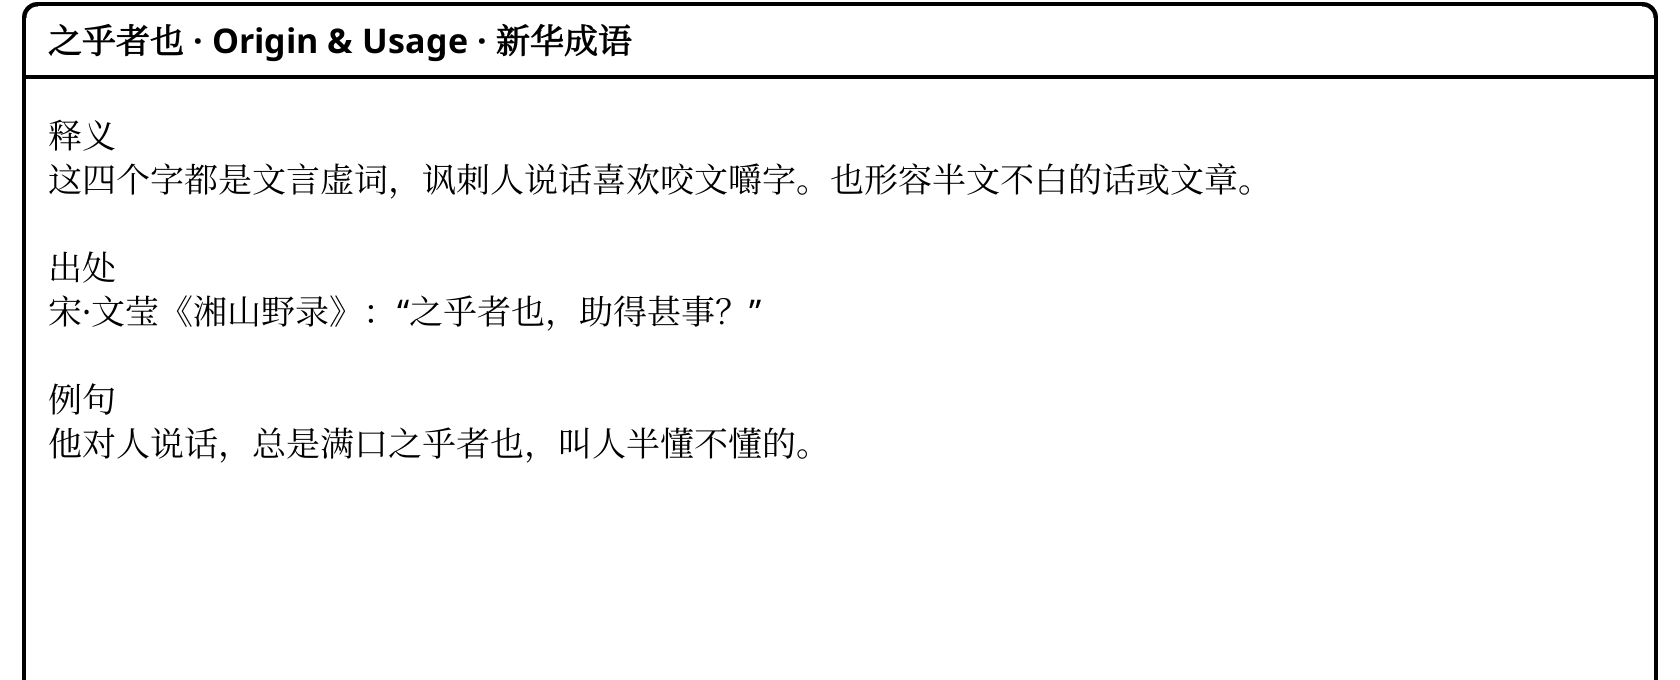
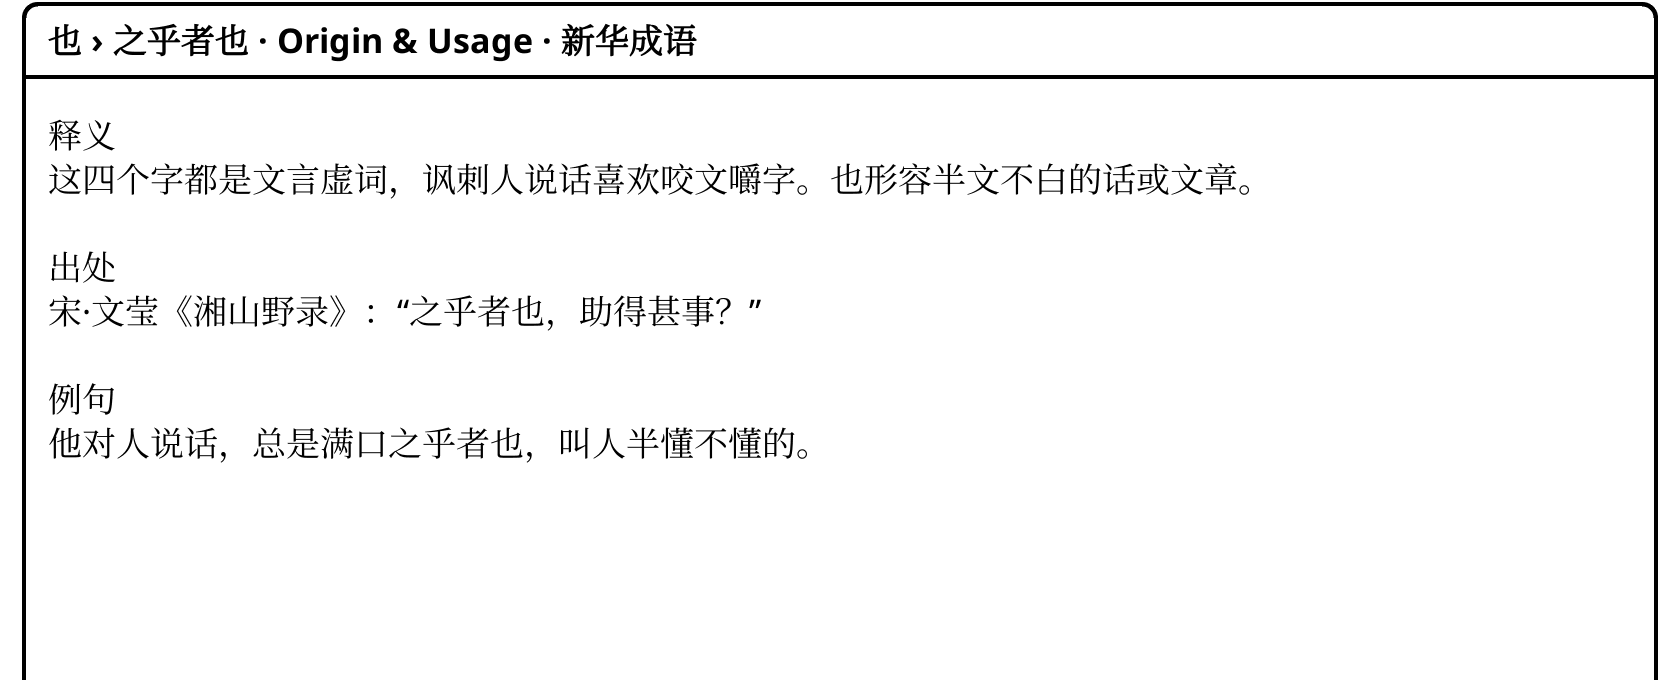
#90: learner list updated for 2.26/2.27 readings; learner, chengyu and mark-button shots retaken; chengyu alt texts
Claude-Session: https://claude.ai/code/session_01WPaZhjFZ44VEfyPXbB1C2c

Changed region(s): [[0.031, 0.0309, 0.4333, 0.0926]]

diff --git a/tools/make_screenshots.py b/tools/make_screenshots.py
@@ -108,19 +108,20 @@ PAGES = {
 }
 
 # Learner mode (#25): page aq59 with pinyin on every character (threshold 0).
-# Every reading hand-checked (一 and 不 in their spoken tones, #37); the one pair, 革过 guò/guo, has the right
-# reading (guo, the aspect particle) second.
+# Every reading hand-checked (一 and 不 in their spoken tones, #37; the neutral tones of 秀才, 消息, 时候 and 招呼
+# since 2.26.0, #90). Of the two pairs, 革过 guò/guo has the right reading (guo, the aspect particle) second,
+# 谈得很投机 de/děi first.
 AQ59_ALL = (
     "你=nǐ 不=bù 知=zhī 道=dào 他=tā 们=men 已=yǐ 经=jīng 来=lái 革=gé 过=guò/guo 了=le 谁=shéi 阿=ā 更=gèng "
-    "其=qí 诧=chà 异=yì 了=le 那=nà 秀=xiù 才=cái 和=hé 洋=yáng 鬼=guǐ 子=zi 阿=ā 很=hěn 出=chū 意=yì 外=wài "
+    "其=qí 诧=chà 异=yì 了=le 那=nà 秀=xiù 才=cai 和=hé 洋=yáng 鬼=guǐ 子=zi 阿=ā 很=hěn 出=chū 意=yì 外=wài "
     "不=bù 由=yóu 的=de 一=yí 错=cuò 愕=è 老=lǎo 尼=ní 姑=gū 见=jiàn 他=tā 失=shī 了=le 锐=ruì 气=qì 便=biàn "
     "飞=fēi 速=sù 的=de 关=guān 了=le 门=mén 阿=ā 再=zài 推=tuī 时=shí 牢=láo 不=bù 可=kě 开=kāi 再=zài 打=dǎ "
     "时=shí 没=méi 有=yǒu 回=huí 答=dá 了=le 那=nà 还=hái 是=shi 上=shàng 午=wǔ 的=de 事=shì 赵=zhào 秀=xiù "
-    "才=cái 消=xiāo 息=xī 灵=líng 一=yì 知=zhī 道=dào 革=gé 命=mìng 党=dǎng 已=yǐ 在=zài 夜=yè 间=jiān "
+    "才=cai 消=xiāo 息=xi 灵=líng 一=yì 知=zhī 道=dào 革=gé 命=mìng 党=dǎng 已=yǐ 在=zài 夜=yè 间=jiān "
     "进=jìn 城=chéng 便=biàn 将=jiāng 辫=biàn 子=zi 盘=pán 在=zài 顶=dǐng 上=shàng 一=yì 早=zǎo 去=qù "
     "拜=bài 访=fǎng 那=nà 历=lì 来=lái 也=yě 不=bù 相=xiāng 能=néng 的=de 钱=qián 洋=yáng 鬼=guǐ 子=zi "
-    "这=zhè 是=shì 咸=xián 与=yù 维=wéi 新=xīn 的=de 时=shí 候=hòu 了=le 所=suǒ 以=yǐ 他=tā 们=men 便=biàn "
-    "谈=tán 得=de 很=hěn 投=tóu 机=jī 立=lì 刻=kè 成=chéng 了=le 情=qíng 投=tóu 意=yì 合=hé 的=de 同=tóng "
+    "这=zhè 是=shì 咸=xián 与=yù 维=wéi 新=xīn 的=de 时=shí 候=hou 了=le 所=suǒ 以=yǐ 他=tā 们=men 便=biàn "
+    "谈=tán 得=de/děi 很=hěn 投=tóu 机=jī 立=lì 刻=kè 成=chéng 了=le 情=qíng 投=tóu 意=yì 合=hé 的=de 同=tóng "
     "志=zhì 也=yě 相=xiāng 约=yuē 去=qù 革=gé 命=mìng 他=tā 们=men 想=xiǎng 而=ér 又=yòu 想=xiǎng 才=cái "
     "想=xiǎng 出=chū 静=jìng 修=xiū 庵=ān 里=lǐ 有=yǒu 一=yí 块=kuài 皇=huáng 帝=dì 万=wàn 岁=suì 万=wàn "
     "万=wàn 岁=suì 的=de 龙=lóng 牌=pái 是=shì 应=yīng 该=gāi 赶=gǎn 紧=jǐn 革=gé 掉=diào 的=de 于=yú 是=shì "
@@ -131,7 +132,7 @@ AQ59_ALL = (
     "检=jiǎn 点=diǎn 龙=lóng 牌=pái 固=gù 然=rán 已=yǐ 经=jīng 碎=suì 在=zài 地=dì 上=shang 了=le 而=ér "
     "且=qiě 又=yòu 不=bú 见=jiàn 了=le 观=guān 音=yīn 娘=niáng 娘=niang 座=zuò 前=qián 的=de 一=yí 个=ge "
     "宣=xuān 德=dé 炉=lú 这=zhè 事=shì 阿=ā 后=hòu 来=lái 才=cái 知=zhī 道=dào 他=tā 颇=pō 悔=huǐ 自=zì 己=jǐ "
-    "睡=shuì 着=zháo 但=dàn 也=yě 深=shēn 怪=guài 他=tā 们=men 不=bù 来=lái 招=zhāo 呼=hū 他=tā 他=tā 又=yòu "
+    "睡=shuì 着=zháo 但=dàn 也=yě 深=shēn 怪=guài 他=tā 们=men 不=bù 来=lái 招=zhāo 呼=hu 他=tā 他=tā 又=yòu "
     "退=tuì 一=yí 步=bù 想=xiǎng 道=dào ").strip()
 # learner-known: the page after a beginner has marked known the 80 commonest
 # characters on it (by 字频 rank, up to 271), each in its default reading,

diff --git a/README.md b/README.md
@@ -45,8 +45,8 @@ Kobo, Kindle, PocketBook, and Android devices such as Boox.
 <td><img src="docs/traditional.png" alt="Popup for 观 in 阿Q正传's 观音娘娘: at the top the line …而且又不见了观音娘娘座前的一个宣德炉。 with 观 marked; the 文言 Mode and reading-mark buttons in the title bar; first, labelled CEDICT, 观音 • 觀音 Guānyīn · decides 观's reading; then 字频 407, the label CEDICT and 观 • 觀 guān · likely here, the same size, with guàn and Guàn after it; traditional 觀: 雚 guàn (archaic) stork; heron → sound (same sound), 見 jiàn see → meaning, simplified: 雚 → 又"><br><a href="#character-components"><b>Parts the simplification hid</b></a>: 观 is read through 觀, 雚 <i>guàn</i> → sound</td>
 </tr>
 <tr>
-<td><img src="docs/chengyu.png" alt="Popup for 也 in 孔乙己's 满口之乎者也: at the top the line 他对人说话，总是满口之乎者也，教人半懂不懂的。 with 也 marked; the 文言 Mode and reading-mark buttons in the title bar; first 满口之乎者也 • 滿口之乎者也 and 之乎者也, each labelled CEDICT, 之乎者也 with a Chinese line labelled 新华: 这四个字都是文言虚词，讽刺人说话喜欢咬文嚼字。也形容半文不白的话或文章。; then 字频 38, the label CEDICT, 也 yě and its Wikt line pictogram (象形); a 成语 Origin &amp; Usage button"><br><a href="#chengyu"><b>Chengyu explained</b></a>: 之乎者也 with Xinhua's line (optional file) …</td>
-<td><img src="docs/chengyu-2.png" alt="The Origin &amp; Usage view for 之乎者也 from 新华成语: 释义; 出处 宋·文莹《湘山野录》：“之乎者也，助得甚事？”; 例句 他对人说话，总是满口之乎者也，叫人半懂不懂的。"><br>… and its <a href="#chengyu"><b>Origin &amp; Usage</b></a> view: the classical source and an example from this same passage of 孔乙己</td>
+<td><img src="docs/chengyu.png" alt="Popup for 也 in 孔乙己's 满口之乎者也: at the top the line 他对人说话，总是满口之乎者也，教人半懂不懂的。 with 也 marked; the 文言 Mode and reading-mark buttons in the title bar; first 之乎者也, labelled CEDICT, with a Chinese line labelled 新华: 这四个字都是文言虚词，讽刺人说话喜欢咬文嚼字。也形容半文不白的话或文章。; then 满口之乎者也 • 滿口之乎者也, labelled CEDICT; then 字频 38, the label CEDICT, 也 yě and its Wikt line pictogram (象形); a 成语 Origin &amp; Usage button"><br><a href="#chengyu"><b>Chengyu explained</b></a>: 之乎者也 with Xinhua's line (optional file) …</td>
+<td><img src="docs/chengyu-2.png" alt="The Origin &amp; Usage view titled 也 › 之乎者也 · Origin &amp; Usage · 新华成语: 释义; 出处 宋·文莹《湘山野录》：“之乎者也，助得甚事？”; 例句 他对人说话，总是满口之乎者也，叫人半懂不懂的。"><br>… and its <a href="#chengyu"><b>Origin &amp; Usage</b></a> view: the classical source and an example from this same passage of 孔乙己</td>
 </tr>
 <tr>
 <td><img src="docs/classical.png" alt="Popup for 之 in 三国演义's 窦武、陈蕃谋诛之: the line 时有宦官曹节等弄权，窦武、陈蕃谋诛之，作事不密，反为所害，中涓自此愈横。 with 之 marked; the title bar, 之 on the left and the buttons 文言 Mode ✓ and Remind me: zhī on the right; first 字频 69, then the label 文言 on a row of its own and the Classical entry, its senses numbered: 之, 1. him; her; them; that, 2. it (object pronoun), 3. genitive marker; of (possession), 4. attributive marker…, 5. particle infixed in a subject-predicate construction…, 6. to go, 7. to arrive; to go to, and on to 18, with a scroll bar; then the buttons 之, Translate & analyze the surrounding sentence [AI] and Close"><br><a href="#classical-mode"><b>Classical mode</b></a>: one tap on 文言 Mode puts the senses classical texts use first, here 之 as <i>him; her; them</i> in 窦武、陈蕃谋诛之</td>
